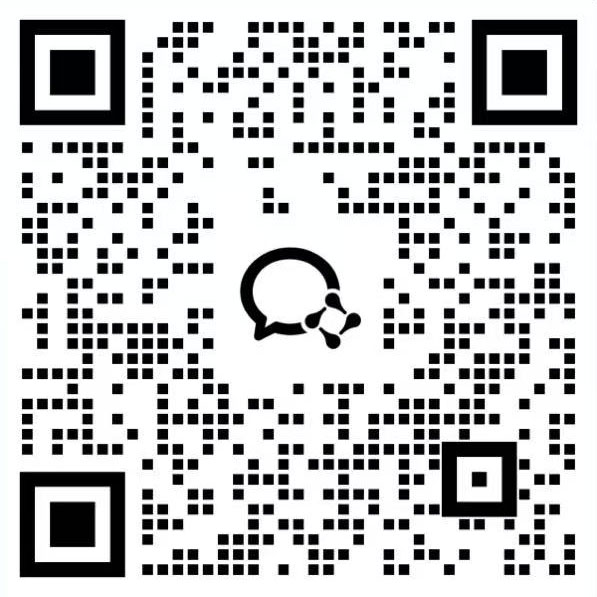
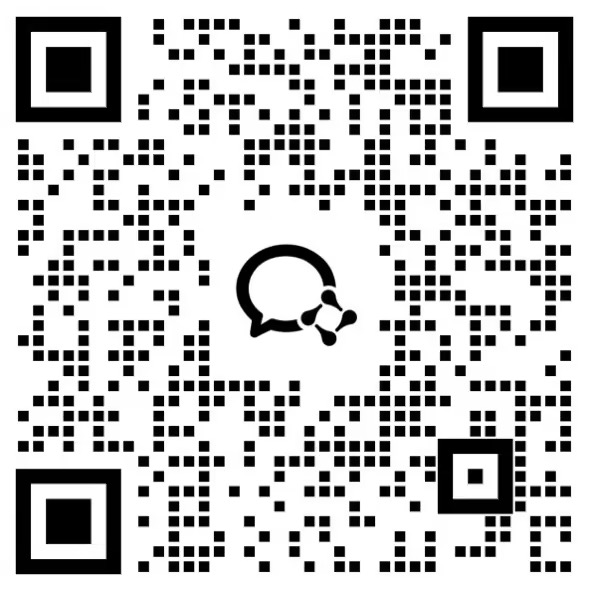
chore(assets): Update WeChat QR code
- 更新群二维码

diff --git a/index.html b/index.html
@@ -308,7 +308,7 @@
                     </svg>
                     加入社群
                     <div class="nav-community-qrcode">
-                        <img src="images/wxqrcode.jpg?v=1.1" alt="微信群二维码">
+                        <img src="images/wxqrcode.jpg?v=1.2" alt="微信群二维码">
                         <span>微信扫码加入社群</span>
                     </div>
                 </div>

diff --git a/en.html b/en.html
@@ -247,7 +247,7 @@
                     </svg>
                     Join Community
                     <div class="nav-community-qrcode">
-                        <img src="images/wxqrcode.jpg?v=1.1" alt="WeChat QR Code">
+                        <img src="images/wxqrcode.jpg?v=1.2" alt="WeChat QR Code">
                         <span>Scan to join community</span>
                     </div>
                 </div>

diff --git a/README_EN.md b/README_EN.md
@@ -25,5 +25,5 @@ This repository hosts the official website for the [orderwise-agent](https://git
 ## Join Our Community
 
 <div align="center">
-<img src=images/wxqrcode.jpg width="20%"/>
+<img src=images/wxqrcode.jpg?v1.2 width="20%"/>
 </div>

diff --git a/README.md b/README.md
@@ -28,5 +28,5 @@
 ## 加入群组
 
 <div align="center">
-<img src=images/wxqrcode.jpg?v1.1 width="20%"/>
+<img src=images/wxqrcode.jpg?v1.2 width="20%"/>
 </div>
